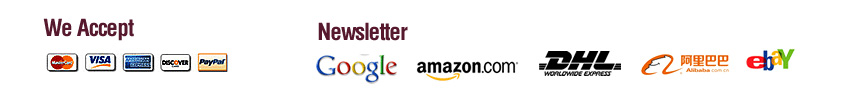
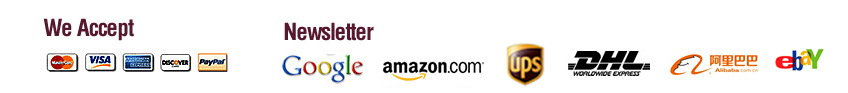
dsadasd

Changed region(s): [[0.3066, 0.4516, 0.9811, 0.9247], [0.3373, 0.2366, 0.4906, 0.4516]]

diff --git a/style/css/page/motifs.css b/style/css/page/motifs.css
@@ -3,13 +3,13 @@
  @date 2012.10.15
 */
 
-.carousel-v2{padding:30px 1px 40px 1px;width:948px;height:154px;position:relative; overflow: hidden;}
+.carousel-v2{padding:30px 1px 40px 1px;width:948px;height:210px;position:relative; overflow: hidden;}
 .carousel-v2 #mycarousel {width: 10000px;}
-.carousel-v2 li{float:left;display:inline;width:208px;height:144px;overflow:hidden;margin:0 9px 0 10px;padding:4px;border:1px solid #CCC;}
-.carousel-v2 img{display:block;width:208px;height:144px;}
-.carousel-v2 .jcarousel-prev{position:absolute;left:-1px;top:85px;width:46px;height:44px;opacity:0.8;filter:alpha(opacity=80);
+.carousel-v2 li{float:left;display:inline;width:208px;height:200px;overflow:hidden;margin:0 9px 0 10px;padding:4px;border:1px solid #CCC;}
+.carousel-v2 img{display:block;width:208px;height:200px;}
+.carousel-v2 .jcarousel-prev{position:absolute;left:-1px;top:113px;width:46px;height:44px;opacity:0.8;filter:alpha(opacity=80);
 	background:url(../../img/page/carousel2-left.jpg) no-repeat;cursor:pointer;}
-.carousel-v2 .jcarousel-next{position:absolute;right:0px;top:85px;width:46px;height:44px;opacity:0.8;filter:alpha(opacity=80);
+.carousel-v2 .jcarousel-next{position:absolute;right:0px;top:113px;width:46px;height:44px;opacity:0.8;filter:alpha(opacity=80);
 	background:url(../../img/page/carousel2-right.jpg) no-repeat;cursor:pointer;}
 
 .motifs-cata{padding:0 1px 30px 1px;}
@@ -22,10 +22,10 @@
 .motifs-detailblock{margin-top:30px;border-top:1px solid #DFDFDF;border-bottom:1px solid #DFDFDF;background:#FFF url(../../img/page/bg-list.png) repeat;}
 .motifs-detailblock .mod-content{border-top:3px solid #F3F3F3;border-bottom:3px solid #F3F3F3;}
 .motifs-detail{padding:50px 32px 30px 32px;}
-.motifs-detail li{float:left;display:inline;width:192px;height:152px;margin:0 14px 20px 15px;}
+.motifs-detail li{float:left;display:inline;width:192px;height:192px;margin:0 14px 20px 15px;}
 .motifs-detail li a:link,.motifs-detail li a:visited{position:relative;display:block;padding:4px;border:2px solid #CCC;color:#333;}
 .motifs-detail li a:hover,.motifs-detail li a:active{border-color:#c44141;}	
-.motifs-detail li img{display:block;width:180px;height:140px;}
+.motifs-detail li img{display:block;width:180px;height:180px;}
 .motifs-detail li a:link span,.motifs-detail li a:visited span{display:none;padding:2px 2px 2px 24px;height:16px;line-height:16px;
 	position:absolute;right:4px;bottom:4px;background:#FFF url(../../img/common/like.png) 4px 2px no-repeat;}
 .motifs-detail li a:hover span,.motifs-detail li a:active span{display:block;}

diff --git a/style/css/common/layout.css b/style/css/common/layout.css
@@ -45,11 +45,11 @@ h3.commontitle{padding:20px 0 0 15px;height:44px;line-height:44px;font-family:"D
 
 /* clare */
 .clare{padding-top:30px;}
-.clare h2{line-height:30px;background-color:#FFF;padding:20px 0 20px 100px;font-family:"Droid Sans,Tahoma, Arial, \5b8b\4f53, sans-serif";color:#333;font-weight:normal;}
+.clare h2{line-height:30px;background-color:#FFF;padding:20px 0 20px 0;text-align:center;font-family:"Droid Sans,Tahoma, Arial, \5b8b\4f53, sans-serif";color:#333;font-weight:normal;}
 
 /* footer */
 #footer{padding-bottom:40px;}
-.supportpic{width: 848px;height: 93px;background: url("../../img/common/bg-support.jpg") no-repeat;margin: 0 auto;overflow: hidden;}
+.supportpic{width: 848px;height: 93px;margin: 0 auto;overflow: hidden;}
 h3.contacttitle{padding-top:40px;color:#666;}
 .contactlist{padding-left:40px;}
 .contactlist ul{float:left;width:343px;padding:0 20px 30px 60px;}

diff --git a/style/css/page/index.css b/style/css/page/index.css
@@ -21,9 +21,8 @@
 .showblock{border-top:1px solid #DFDFDF;border-bottom:1px solid #DFDFDF;background:#F4F4F4;}
 .showblock .mod-content{border-top:3px solid #F3F3F3;border-bottom:3px solid #F3F3F3;background:inherit;}
 .showlist{padding:20px 0 30px 0;}
-.showlist li{float:left;display:inline;width:208px;height:144px;overflow:hidden;margin:0 14px 20px 15px;
-	background:url(../../img/page/bg-listpic.jpg) no-repeat;}
-.showlist li img{display:block;width:200px;height:134px;padding:5px 0 0 4px;}
+.showlist li{float:left;display:inline;width:200px;height:200px;overflow:hidden;margin:0 18px 30px 19px;}
+.showlist li img{display:block;width:200px;height:200px;}
 
 .showlist1{padding:0 3px 40px;}
 .showlist1 li{float:left;display:inline;width:100px;height:122px;overflow:hidden;margin:0 9px;}

diff --git a/front-page.php b/front-page.php
@@ -7,17 +7,17 @@ get_header(); ?>
 			<!-- 网站公告区，有公告内容时把注释去掉 -->
 			<div class="clare">
 				<div class="division"></div>
-				<h2>This website is under Construction.Plead contact us by E-mail,<span style="color:#0066cc;">cstarintl@gmail.com</span></h2>
+				<h2>This website is under Construction.Please contact us by E-mail,<span style="color:#0066cc;">cstarintl@gmail.com</span></h2>
 				<div class="division"></div>
 			</div>
 			<div class="mod-content">
 				<div class="carousel-v1">
 					<ul id="mycarousel">
 						<!-- 顶部轮播 -->
-						<li><a href="#"><img src="http://www.cstarintl.com/wordpress/wp-content/uploads/2012/11/lunbo-index01.png" /></a></li>
-						<li><a href="#"><img src="http://www.cstarintl.com/wordpress/wp-content/uploads/2012/11/lunbo-index02.png" /></a></li>
-						<li><a href="#"><img src="http://www.cstarintl.com/wordpress/wp-content/uploads/2012/11/lunbo-index03.png" /></a></li>
-						<li><a href="#"><img src="http://www.cstarintl.com/wordpress/wp-content/uploads/2012/11/lunbo-index04.png" /></a></li>
+						<li><a href="#"><img src="http://www.cstarintl.com/wordpress/wp-content/uploads/2012/11/lunbo-index01.jpg" /></a></li>
+						<li><a href="#"><img src="http://www.cstarintl.com/wordpress/wp-content/uploads/2012/11/lunbo-index02.jpg" /></a></li>
+						<li><a href="#"><img src="http://www.cstarintl.com/wordpress/wp-content/uploads/2012/11/lunbo-index03.jpg" /></a></li>
+						<li><a href="#"><img src="http://www.cstarintl.com/wordpress/wp-content/uploads/2012/11/lunbo-index04.jpg" /></a></li>
 					</ul>
 					<div class="jcarousel-prev jcarousel-prev-horizontal"></div>
 					<div class="jcarousel-next jcarousel-next-horizontal"></div>
@@ -41,14 +41,14 @@ get_header(); ?>
 					<h3 class="commontitle">New Designs Show Case</h3>
 					<!-- 首页热门motifs区 -->
 					<ul class="showlist clr">
-						<li><a href="#"><img src="http://www.cstarintl.com/wordpress/wp-content/uploads/2012/11/motif-index01.png" /></a></li>			
-						<li><a href="#"><img src="http://www.cstarintl.com/wordpress/wp-content/uploads/2012/11/motif-index02.png" /></a></li>			
-						<li><a href="#"><img src="http://www.cstarintl.com/wordpress/wp-content/uploads/2012/11/motif-index03.png" /></a></li>			
-						<li><a href="#"><img src="http://www.cstarintl.com/wordpress/wp-content/uploads/2012/11/motif-index04.png" /></a></li>			
-						<li><a href="#"><img src="http://www.cstarintl.com/wordpress/wp-content/uploads/2012/11/motif-index05.png" /></a></li>			
-						<li><a href="#"><img src="http://www.cstarintl.com/wordpress/wp-content/uploads/2012/11/motif-index06.png" /></a></li>			
-						<li><a href="#"><img src="http://www.cstarintl.com/wordpress/wp-content/uploads/2012/11/motif-index07.png" /></a></li>			
-						<li><a href="#"><img src="http://www.cstarintl.com/wordpress/wp-content/uploads/2012/11/motif-index08.png" /></a></li>					
+						<li><a href="#"><img src="http://www.cstarintl.com/wordpress/wp-content/uploads/2012/11/motif-index01.jpg" /></a></li>			
+						<li><a href="#"><img src="http://www.cstarintl.com/wordpress/wp-content/uploads/2012/11/motif-index02.jpg" /></a></li>			
+						<li><a href="#"><img src="http://www.cstarintl.com/wordpress/wp-content/uploads/2012/11/motif-index03.jpg" /></a></li>			
+						<li><a href="#"><img src="http://www.cstarintl.com/wordpress/wp-content/uploads/2012/11/motif-index04.jpg" /></a></li>			
+						<li><a href="#"><img src="http://www.cstarintl.com/wordpress/wp-content/uploads/2012/11/motif-index05.jpg" /></a></li>			
+						<li><a href="#"><img src="http://www.cstarintl.com/wordpress/wp-content/uploads/2012/11/motif-index06.jpg" /></a></li>			
+						<li><a href="#"><img src="http://www.cstarintl.com/wordpress/wp-content/uploads/2012/11/motif-index07.jpg" /></a></li>			
+						<li><a href="#"><img src="http://www.cstarintl.com/wordpress/wp-content/uploads/2012/11/motif-index08.jpg" /></a></li>					
 					</ul>
 				</div>
 			</div>
@@ -77,7 +77,123 @@ get_header(); ?>
 							<li><b>OFFICE ADDRESS(in U.S.A)</b><br/><span>1520 South Mary Ave Sunnyvale, CA, 94087, USA</span></li>
 						</ul>
 					</div>	
-					<div class="supportpic"></div>
+					<div class="supportpic"><img usemap="#multilinks" src="<?php echo get_template_directory_uri() ?>/style/img/common/bg-support.jpg" /></div>
+<map name="multilinks" id="multilinks">
+  <area shape="rect" coords="282,44,364,86" href ="http://www.google.com" alt="google" />
+  <area shape="rect" coords="382,44,486,86" href ="http://www.amazon.com" alt="amazon" />
+  <area shape="rect" coords="506,44,546,86" href ="http://www.ups.com" alt="ups" />
+  <area shape="rect" coords="568,44,650,86" href ="http://www.dhl.com" alt="dhl" />
+  <area shape="rect" coords="670,44,760,86" href ="http://www.alibaba.com" alt="alibaba" />
+  <area shape="rect" coords="774,44,826,86" href ="http://www.ebay.com" alt="ebay" />
+</map>
+				</div>
+			</div>
+		</div>
+		<script type="text/javascript">
+			<!-- 网站上线前先藏起来 -->
+			//jQuery('.mod-content').hide();
+			jQuery(document).ready(function() {
+				new Tabs('div.carousel-v1', {
+					event: 'click',
+					prevNav: 'div.jcarousel-prev',
+					nextNav: 'div.jcarousel-next',
+					pane: '#mycarousel li',
+					effect: 'leftright',
+					autoSwitch: 'liner'
+				});
+			});
+		</script>
+
+	</body>
+</html>
+<?php
+/**
+ * index file
+ */
+
+get_header(); ?>
+			<!-- 网站公告区，有公告内容时把注释去掉 -->
+			<div class="clare">
+				<div class="division"></div>
+				<h2>This website is under Construction.Please contact us by E-mail,<span style="color:#0066cc;">cstarintl@gmail.com</span></h2>
+				<div class="division"></div>
+			</div>
+			<div class="mod-content">
+				<div class="carousel-v1">
+					<ul id="mycarousel">
+						<!-- 顶部轮播 -->
+						<li><a href="#"><img src="http://www.cstarintl.com/wordpress/wp-content/uploads/2012/11/lunbo-index01.jpg" /></a></li>
+						<li><a href="#"><img src="http://www.cstarintl.com/wordpress/wp-content/uploads/2012/11/lunbo-index02.jpg" /></a></li>
+						<li><a href="#"><img src="http://www.cstarintl.com/wordpress/wp-content/uploads/2012/11/lunbo-index03.jpg" /></a></li>
+						<li><a href="#"><img src="http://www.cstarintl.com/wordpress/wp-content/uploads/2012/11/lunbo-index04.jpg" /></a></li>
+					</ul>
+					<div class="jcarousel-prev jcarousel-prev-horizontal"></div>
+					<div class="jcarousel-next jcarousel-next-horizontal"></div>
+				</div>
+				<h3 class="commontitle">Hot Products</h3>
+				<div class="division" style="margin:10px 0 25px 0;"></div>
+				<!-- 产品区products -->
+				<ul class="showlist1 clr">
+					<li><a href="#"><span>Rhinestone</span><img src="http://www.cstarintl.com/wordpress/wp-content/uploads/2012/11/product-index01.png" /></a></li>
+					<li><a href="#"><span>Nailhead</span><img src="http://www.cstarintl.com/wordpress/wp-content/uploads/2012/11/product-index02.png" /></a></li>
+					<li><a href="#"><span>Rhine stud</span><img src="http://www.cstarintl.com/wordpress/wp-content/uploads/2012/11/product-index03.png" /></a></li>
+					<li><a href="#"><span>Dome stud</span><img src="http://www.cstarintl.com/wordpress/wp-content/uploads/2012/11/product-index04.png" /></a></li>
+					<li><a href="#"><span>Copper stud</span><img src="http://www.cstarintl.com/wordpress/wp-content/uploads/2012/11/product-index05.png" /></a></li>
+					<li><a href="#"><span>Epoxy Beads</span><img src="http://www.cstarintl.com/wordpress/wp-content/uploads/2012/11/product-index06.png" /></a></li>
+					<li><a href="#"><span>Hot fix paper</span><img src="http://www.cstarintl.com/wordpress/wp-content/uploads/2012/11/product-index07.png" /></a></li>
+					<li><a href="#"><span>Transfer Film</span><img src="http://www.cstarintl.com/wordpress/wp-content/uploads/2012/11/product-index08.png" /></a></li>
+				</ul>
+			</div>
+			<div class="showblock">
+				<div class="mod-content">
+					<h3 class="commontitle">New Designs Show Case</h3>
+					<!-- 首页热门motifs区 -->
+					<ul class="showlist clr">
+						<li><a href="#"><img src="http://www.cstarintl.com/wordpress/wp-content/uploads/2012/11/motif-index01.jpg" /></a></li>
+						<li><a href="#"><img src="http://www.cstarintl.com/wordpress/wp-content/uploads/2012/11/motif-index02.jpg" /></a></li>
+						<li><a href="#"><img src="http://www.cstarintl.com/wordpress/wp-content/uploads/2012/11/motif-index03.jpg" /></a></li>
+						<li><a href="#"><img src="http://www.cstarintl.com/wordpress/wp-content/uploads/2012/11/motif-index04.jpg" /></a></li>
+						<li><a href="#"><img src="http://www.cstarintl.com/wordpress/wp-content/uploads/2012/11/motif-index05.jpg" /></a></li>
+						<li><a href="#"><img src="http://www.cstarintl.com/wordpress/wp-content/uploads/2012/11/motif-index06.jpg" /></a></li>
+						<li><a href="#"><img src="http://www.cstarintl.com/wordpress/wp-content/uploads/2012/11/motif-index07.jpg" /></a></li>
+						<li><a href="#"><img src="http://www.cstarintl.com/wordpress/wp-content/uploads/2012/11/motif-index08.jpg" /></a></li>
+					</ul>
+				</div>
+			</div>
+			<div class="mod-content">
+				<div id="footer">
+					<h3 class="commontitle contacttitle">Contact Us</h3>
+					<div class="division" style="margin:20px 0 35px 0;"></div>
+					<div class="contactlist clr">
+						<ul>
+							<li><h3>CHINA</h3></li>
+							<li><b>TEL</b><span>86-571-85333051</span></li>
+							<li><b>FAX</b><span>86-571-85333052</span></li>
+							<li><b>E-MAIL</b><span>info@cstarintl.com</span></li>
+							<li><b>MSN</b><span>swasky@swasky.com</span></li>
+							<li><b>SKYPE</b><span>caleb_c</span></li>
+							<li><b>HOURS</b><span>Monday-Saturday 9:00AM-6:00PM</span></li>
+							<li><b>OFFICE ADDRESS(in China)</b><br/><span>15/F, Dongguan Building, No.4288 Jiangnan Road, Binjiang District, Hangzhou, China</span></li>
+						</ul>
+						<div class="division2"></div>
+						<ul>
+							<li><h3>U.S.A</h3></li>
+							<li><b>TEL</b><span>(408)705-4409</span></li>
+							<li><b>E-MAIL</b><span>cstarintl@gmail.com</span></li>
+							<li><b>SKYPE</b><span>caleb_c</span></li>
+							<li><b>HOURS</b><span>Monday-Saturday 9:00AM-6:00PM</span></li>
+							<li><b>OFFICE ADDRESS(in U.S.A)</b><br/><span>1520 South Mary Ave Sunnyvale, CA, 94087, USA</span></li>
+						</ul>
+					</div>
+					<div class="supportpic"><img usemap="#multilinks" src="<?php echo get_template_directory_uri() ?>/style/img/common/bg-support.jpg" /></div>
+<map name="multilinks" id="multilinks">
+  <area shape="rect" coords="282,44,364,86" href ="http://www.google.com" alt="google" />
+  <area shape="rect" coords="382,44,486,86" href ="http://www.amazon.com" alt="amazon" />
+  <area shape="rect" coords="506,44,546,86" href ="http://www.ups.com" alt="ups" />
+  <area shape="rect" coords="568,44,650,86" href ="http://www.dhl.com" alt="dhl" />
+  <area shape="rect" coords="670,44,760,86" href ="http://www.alibaba.com" alt="alibaba" />
+  <area shape="rect" coords="774,44,826,86" href ="http://www.ebay.com" alt="ebay" />
+</map>
 				</div>
 			</div>
 		</div>

diff --git a/contact.php b/contact.php
@@ -64,8 +64,9 @@ get_header(); ?>
 							<li><b>FAX</b><span>86-571-85333052</span></li>
 							<li><b>E-MAIL</b><span>info@cstarintl.com</span></li>
 							<li><b>MSN</b><span>swasky@swasky.com</span></li>
-							<li><b>HOURS</b><br/><span>Monday-Saturday 9:00 a.m-6:00 p.m China Time</span></li>
-							<li><b>OFFICE ADDRESS(in China)</b><br/><span>15/F,Dongguan Building ,No.4288 Jiangnan Road,Binjiang District,Hangzhou, China</span></li>
+							<li><b>SKYPE</b><span>caleb_c</span></li>
+							<li><b>HOURS</b><span>Monday-Saturday 9:00AM-6:00PM</span></li>
+							<li><b>OFFICE ADDRESS(in China)</b><br/><span>15/F, Dongguan Building, No.4288 Jiangnan Road, Binjiang District, Hangzhou, China</span></li>
 							<li><b>MAP</b><br/>
 								<a title="click to view location in googlemap" class="googlemap" target="_blank" href="http://maps.google.com/maps?q=30.183859,120.153187&amp;hl=en&amp;sll=30.197915,120.185585&amp;sspn=0.038821,0.09201&amp;num=1&amp;z=19">
 									<img alt="address of china" src="<?php echo get_template_directory_uri() ?>/style/img/page/map-china.png">
@@ -75,12 +76,14 @@ get_header(); ?>
 						<div class="division2"></div>
 						<ul>
 							<li><h3>U.S.A</h3></li>
-							<li><b>TEL</b><span>86-571-85333051</span></li>
-							<li><b>FAX</b><span>86-571-85333052</span></li>
-							<li><b>E-MAIL</b><span>info@cstarintl.com</span></li>
-							<li><b>MSN</b><span>swasky@swasky.com</span></li>
-							<li><b>HOURS</b><br/><span>Monday-Saturday 9:00 a.m-6:00 p.m China Time</span></li>
-							<li><b>OFFICE ADDRESS(in China)</b><br/><span>15/F,Dongguan Building ,No.4288 Jiangnan Road,Binjiang District,Hangzhou, China</span></li>
+							<li><b>TEL</b><span>(408)705-4409</span></li>
+							<li><b>E-MAIL</b><span>cstarintl@gmail.com</span></li>
+							<li><b>SKYPE</b><span>caleb_c</span></li>
+							<li><b>HOURS</b><span>Monday-Saturday 9:00AM-6:00PM</span></li>
+							<li><b>OFFICE ADDRESS(in U.S.A)</b><br/><span>1520 South Mary Ave Sunnyvale, CA, 94087, USA</span></li>
+							<li>&nbsp;</li>
+							<li>&nbsp;</li>
+							<li>&nbsp;</li>
 							<li><b>MAP</b><br/>
 								<a title="click to view location in googlemap" class="googlemap" target="_blank" href="http://maps.google.com/maps?q=1520+South+Mary+Ave+Sunnyvale,+CA+94087&hl=en&sll=37.0625,-95.677068&sspn=37.735377,78.662109&z=16">
 									<img alt="address of usa" src="<?php echo get_template_directory_uri() ?>/style/img/page/map-usa.png">
@@ -112,7 +115,15 @@ get_header(); ?>
 							</ul>
 						</form>
 					</div>	
-					<div class="supportpic"></div>
+					<div class="supportpic"><img usemap="#multilinks" src="<?php echo get_template_directory_uri() ?>/style/img/common/bg-support.jpg" /></div>
+<map name="multilinks" id="multilinks">
+  <area shape="rect" coords="282,44,364,86" href ="http://www.google.com" alt="google" />
+  <area shape="rect" coords="382,44,486,86" href ="http://www.amazon.com" alt="amazon" />
+  <area shape="rect" coords="506,44,546,86" href ="http://www.ups.com" alt="ups" />
+  <area shape="rect" coords="568,44,650,86" href ="http://www.dhl.com" alt="dhl" />
+  <area shape="rect" coords="670,44,760,86" href ="http://www.alibaba.com" alt="alibaba" />
+  <area shape="rect" coords="774,44,826,86" href ="http://www.ebay.com" alt="ebay" />
+</map>
 				</div>	
 			</div>
 		</div>
